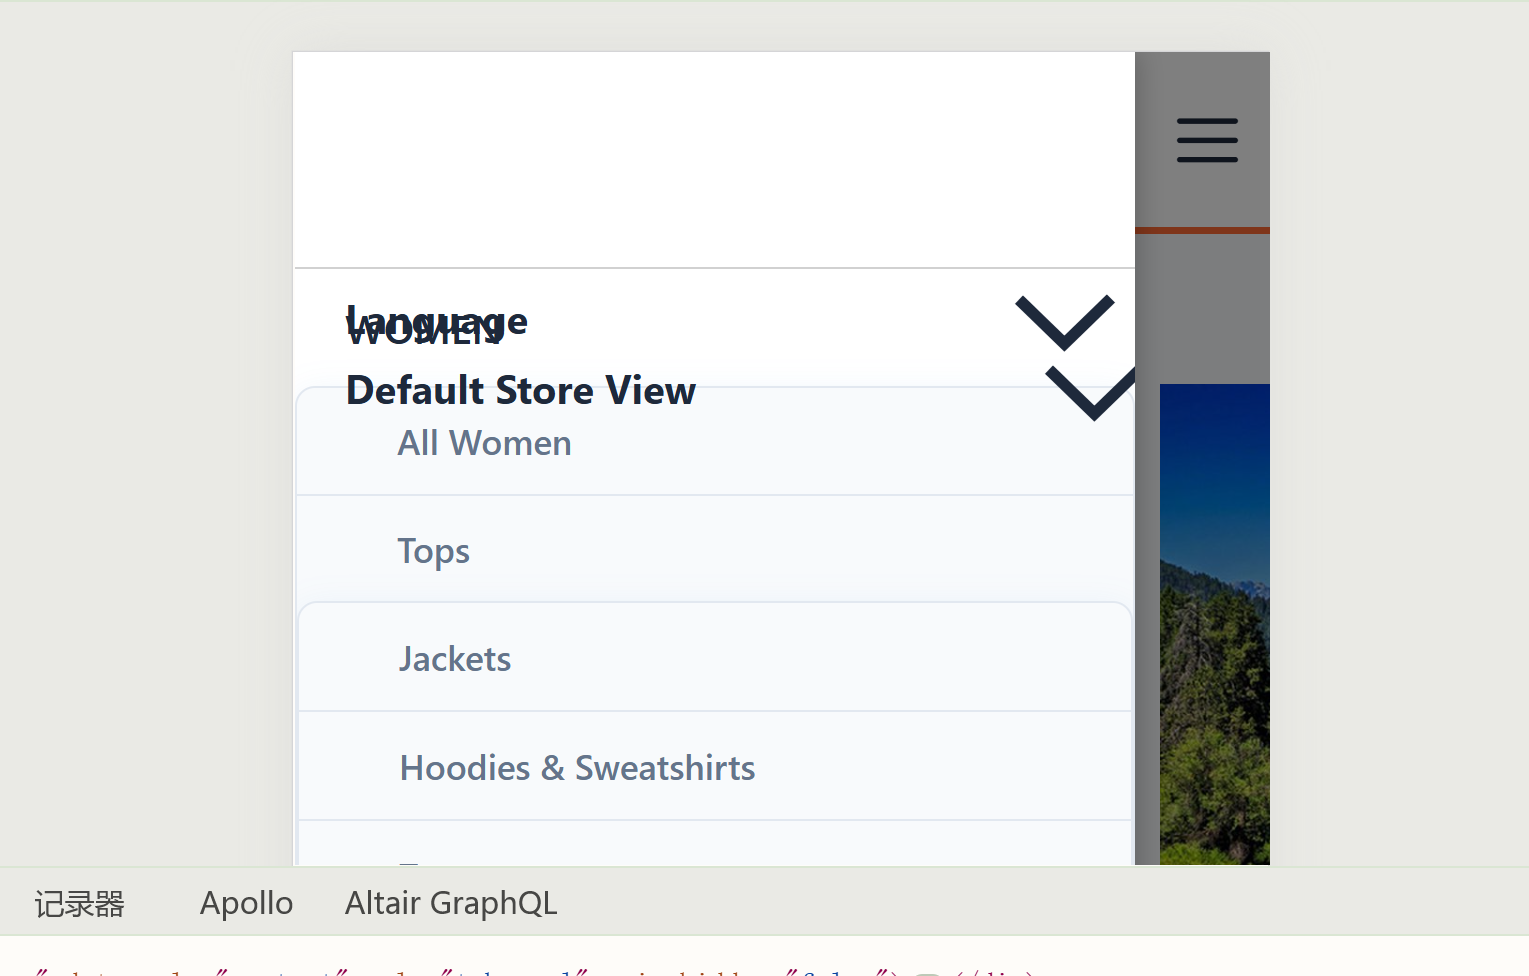
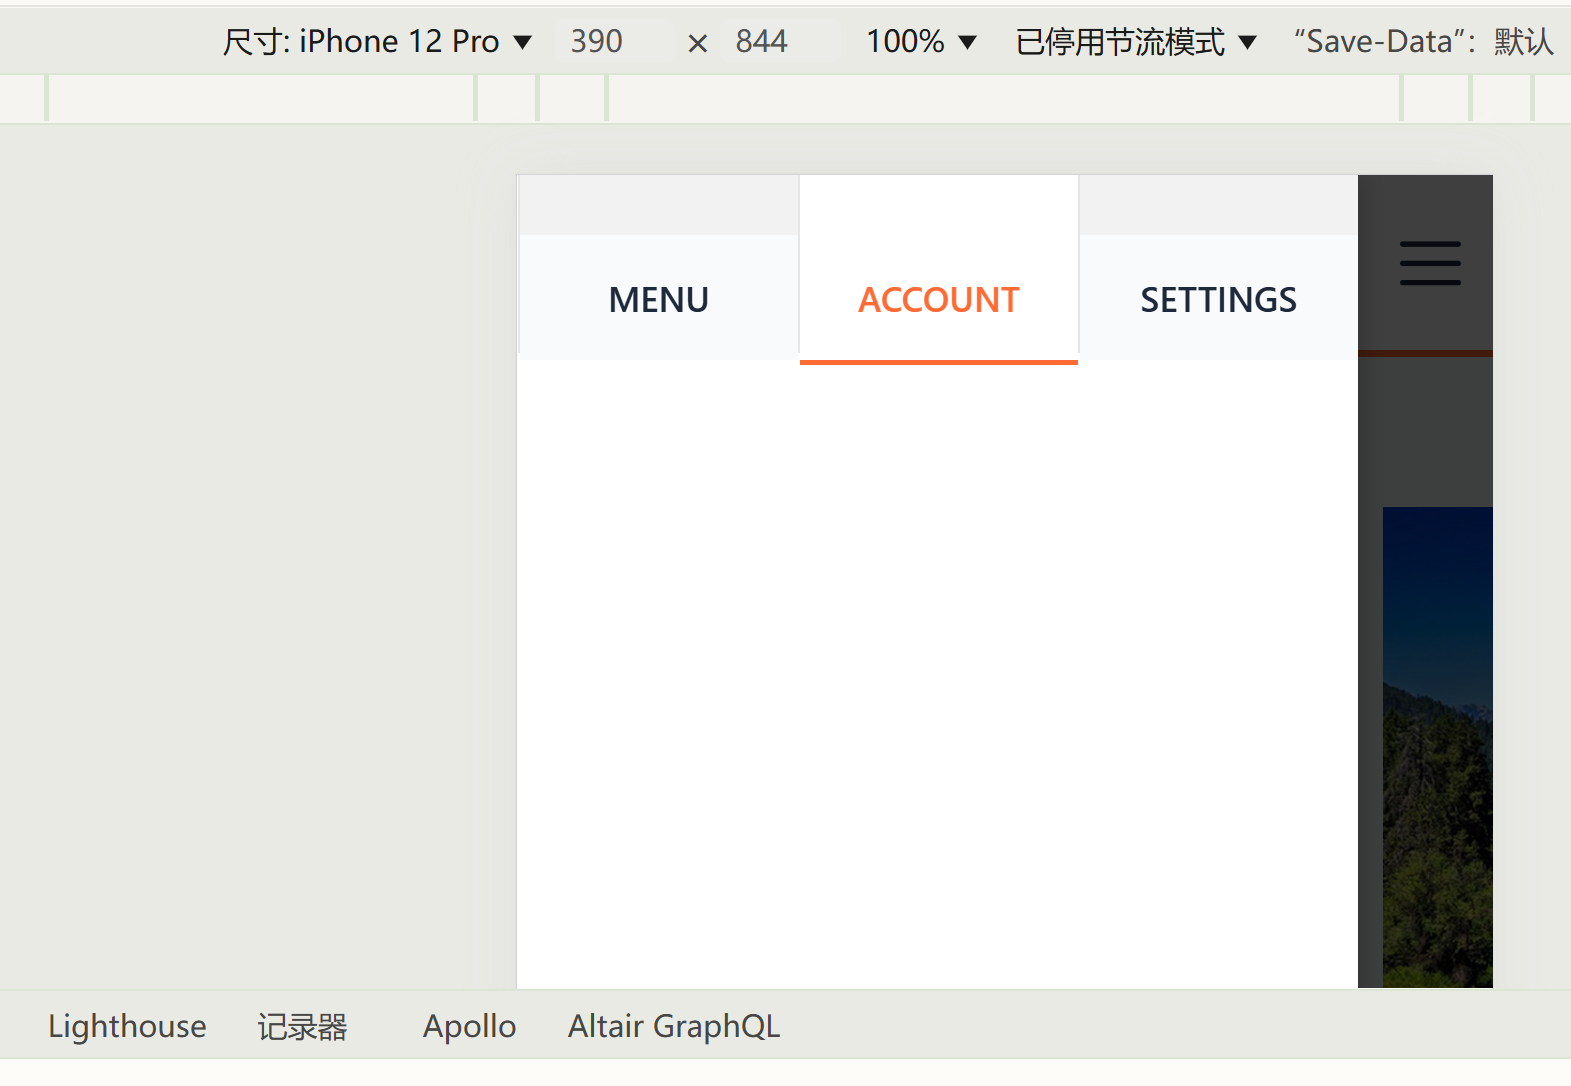
fix(mobile-nav): 优化移动端导航样式和交互
问题：
1. 移动端使用了hover效果（不适用于触摸设备）
2. 遮罩点击不关闭导航
3. Account标签页内容为空（header.links被移除）
4. 样式不够美观

修复：

1. 移动端样式优化（使用Magento原生媒体查询）
   - 移除所有:hover效果，改用:active状态
   - 优化标签页样式（更清晰的激活状态）
   - 优化菜单项间距和字体大小
   - 移除不必要的transition动画

2. 修复遮罩点击事件
   - 确保遮罩DOM元素存在
   - 正确绑定点击事件（使用off/on避免重复）
   - 遮罩添加cursor: pointer

3. 恢复Account标签页内容
   - 保留header.links（不要移除）
   - Account标签页会自动显示账户链接

4. 样式细节优化
   - 标签页：灰色文字 + 灰色背景（未激活）
   - 激活标签：橙色文字 + 白色背景 + 橙色底边框
   - 菜单项：flex布局，更合理的间距
   - 子菜单：缩进优化，字体颜色调整

遵循原则：
- 只在媒体查询内修改移动端样式
- 不影响桌面端和其他设备
- 小范围修改，精确控制

Changed region(s): [[0.0307, 0.0, 0.9529, 0.9836], [0.3689, 0.2459, 0.4611, 0.3074], [0.9529, 0.0, 0.9836, 0.0615]]

diff --git a/assets/magento-theme/Folix/game-theme/web/css/source/extends/_header.less b/assets/magento-theme/Folix/game-theme/web/css/source/extends/_header.less
@@ -961,7 +961,7 @@
         // 移动端使用固定定位，默认在左侧隐藏
         position: fixed !important;
         top: 0 !important;
-        left: calc(-1 * (100% - 54px)) !important;  // 默认隐藏在左侧
+        left: calc(-1 * (100% - 54px)) !important;
         height: 100% !important;
         width: calc(100% - 54px) !important;
         overflow: auto !important;
@@ -970,7 +970,7 @@
         z-index: 99 !important;
         background: #FFFFFF !important;
         box-shadow: none !important;
-        display: block !important;  // 确保显示
+        display: block !important;
         margin: 0 !important;
         
         // 当导航打开时显示
@@ -994,31 +994,26 @@
                 .nav-sections-item-switch {
                     display: block !important;
                     padding: 15px 20px !important;
-                    color: #1E293B !important;
-                    font-size: 14px !important;
+                    color: #64748B !important;
+                    font-size: 13px !important;
                     font-weight: 600 !important;
                     text-transform: uppercase !important;
                     text-decoration: none !important;
                     background: #F8FAFC !important;
-                    transition: all 0.2s ease !important;
-                    
-                    &:hover {
-                        background: #E2E8F0 !important;
-                        color: #FF6B35 !important;
-                    }
+                    letter-spacing: 0.5px !important;
                 }
                 
                 // 激活状态的标签页
                 &.active .nav-sections-item-switch {
                     background: #FFFFFF !important;
                     color: #FF6B35 !important;
-                    border-bottom: 2px solid #FF6B35 !important;
+                    border-bottom: 3px solid #FF6B35 !important;
                 }
             }
             
             // 标签页内容区域
             .nav-sections-item-content {
-                display: none !important;  // 默认隐藏
+                display: none !important;
                 padding: 0 !important;
                 
                 // 激活状态的内容区域
@@ -1045,17 +1040,25 @@
                 border-bottom: 1px solid #E2E8F0 !important;
                 
                 a {
-                    display: block !important;
-                    padding: 12px 20px !important;
+                    display: flex !important;
+                    align-items: center !important;
+                    justify-content: space-between !important;
+                    padding: 14px 20px !important;
                     color: #1E293B !important;
-                    font-size: 16px !important;
+                    font-size: 15px !important;
                     font-weight: 500 !important;
                     text-decoration: none !important;
-                    transition: all 0.2s ease !important;
+                    background: #FFFFFF !important;
                     
-                    &:hover {
+                    // 移动端使用 :active 代替 :hover
+                    &:active {
                         background: #F8FAFC !important;
-                        color: #FF6B35 !important;
+                    }
+                    
+                    // 展开图标
+                    .ui-menu-icon {
+                        color: #94A3B8 !important;
+                        font-size: 12px !important;
                     }
                 }
                 
@@ -1068,11 +1071,12 @@
                         border-bottom: 1px solid #E2E8F0 !important;
                         
                         a {
-                            padding-left: 40px !important;
+                            padding-left: 30px !important;
                             font-size: 14px !important;
                             color: #64748B !important;
+                            font-weight: 400 !important;
                             
-                            &:hover {
+                            &:active {
                                 color: #FF6B35 !important;
                             }
                         }
@@ -1096,11 +1100,10 @@
             }
             
             .switcher-trigger {
-                padding: 10px 15px !important;
+                padding: 12px 15px !important;
                 background: #F8FAFC !important;
                 border: 1px solid #E2E8F0 !important;
-                border-radius: 6px !important;
-                cursor: pointer !important;
+                border-radius: 8px !important;
                 
                 strong span {
                     color: #1E293B !important;
@@ -1110,19 +1113,20 @@
             }
             
             .switcher-dropdown {
-                margin-top: 5px !important;
+                margin-top: 8px !important;
                 border: 1px solid #E2E8F0 !important;
-                border-radius: 6px !important;
-                box-shadow: 0 2px 8px rgba(0, 0, 0, 0.1) !important;
+                border-radius: 8px !important;
+                box-shadow: 0 2px 8px rgba(0, 0, 0, 0.08) !important;
                 
                 li {
                     border-bottom: none !important;
                     
                     a {
-                        padding: 8px 15px !important;
+                        padding: 10px 15px !important;
                         color: #1E293B !important;
+                        font-size: 14px !important;
                         
-                        &:hover {
+                        &:active {
                             background: #F8FAFC !important;
                             color: #FF6B35 !important;
                         }
@@ -1142,6 +1146,7 @@
         background: rgba(0, 0, 0, 0.5) !important;
         z-index: 98 !important;
         display: none !important;
+        cursor: pointer !important;
         
         .nav-open & {
             display: block !important;

diff --git a/assets/magento-theme/Folix/game-theme/Magento_Theme/web/js/mobile-header.js b/assets/magento-theme/Folix/game-theme/Magento_Theme/web/js/mobile-header.js
@@ -89,16 +89,24 @@ define([
             console.log('[Folix] Nav sections left:', $navSections.css('left'));  // 调试日志
         });
 
-        // 创建并添加导航遮罩
-        if ($('.nav-overlay').length === 0) {
-            var $navOverlay = $('<div class="nav-overlay"></div>');
-            $navOverlay.insertAfter($navSections);
-            
-            $navOverlay.on('click', function () {
-                console.log('[Folix] Overlay clicked');  // 调试日志
-                $body.removeClass('nav-open');
-            });
+        // 处理导航遮罩（确保遮罩存在并正确绑定事件）
+        var $navOverlay = $('.nav-overlay');
+        
+        // 如果遮罩不存在，创建它
+        if ($navOverlay.length === 0) {
+            $navOverlay = $('<div class="nav-overlay"></div>');
+            $body.append($navOverlay);
         }
+        
+        // 绑定点击事件（使用 off 确保不重复绑定）
+        $navOverlay.off('click.folixMobile').on('click.folixMobile', function (e) {
+            e.preventDefault();
+            e.stopPropagation();
+            console.log('[Folix] Overlay clicked, closing nav');  // 调试日志
+            $body.removeClass('nav-open');
+        });
+        
+        console.log('[Folix] Nav overlay initialized, length:', $navOverlay.length);
     }
 
     /**
